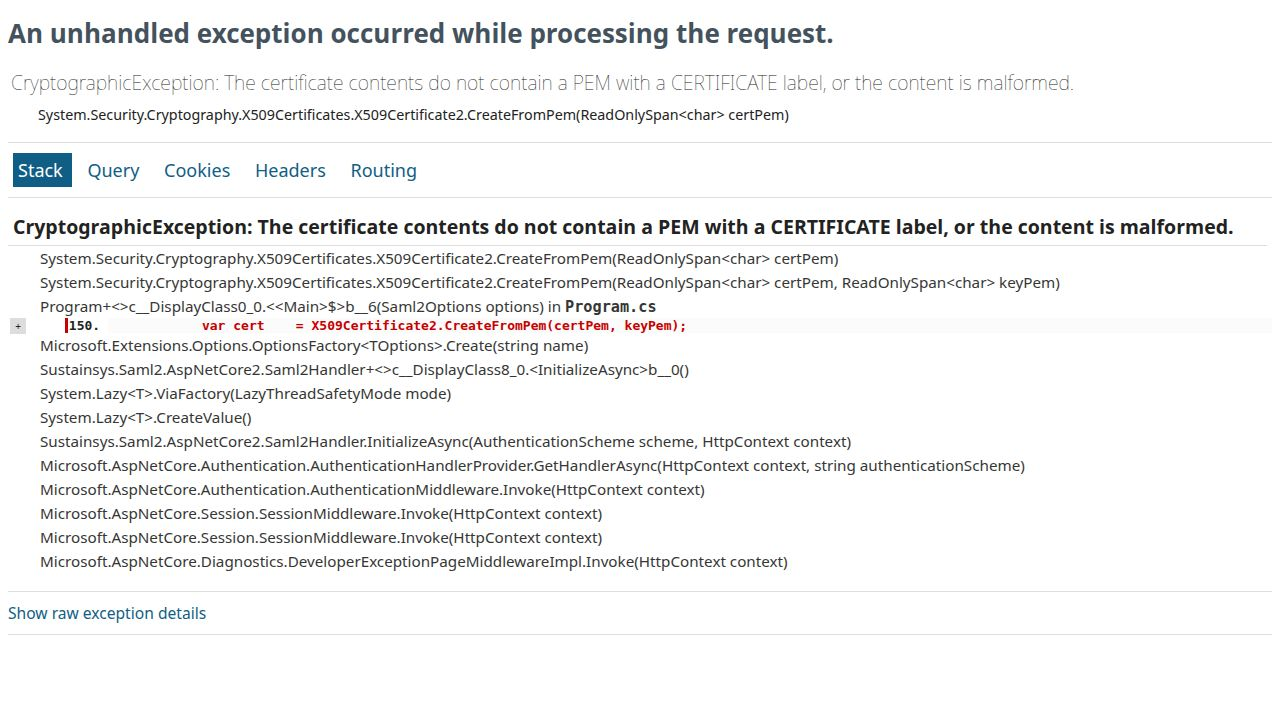
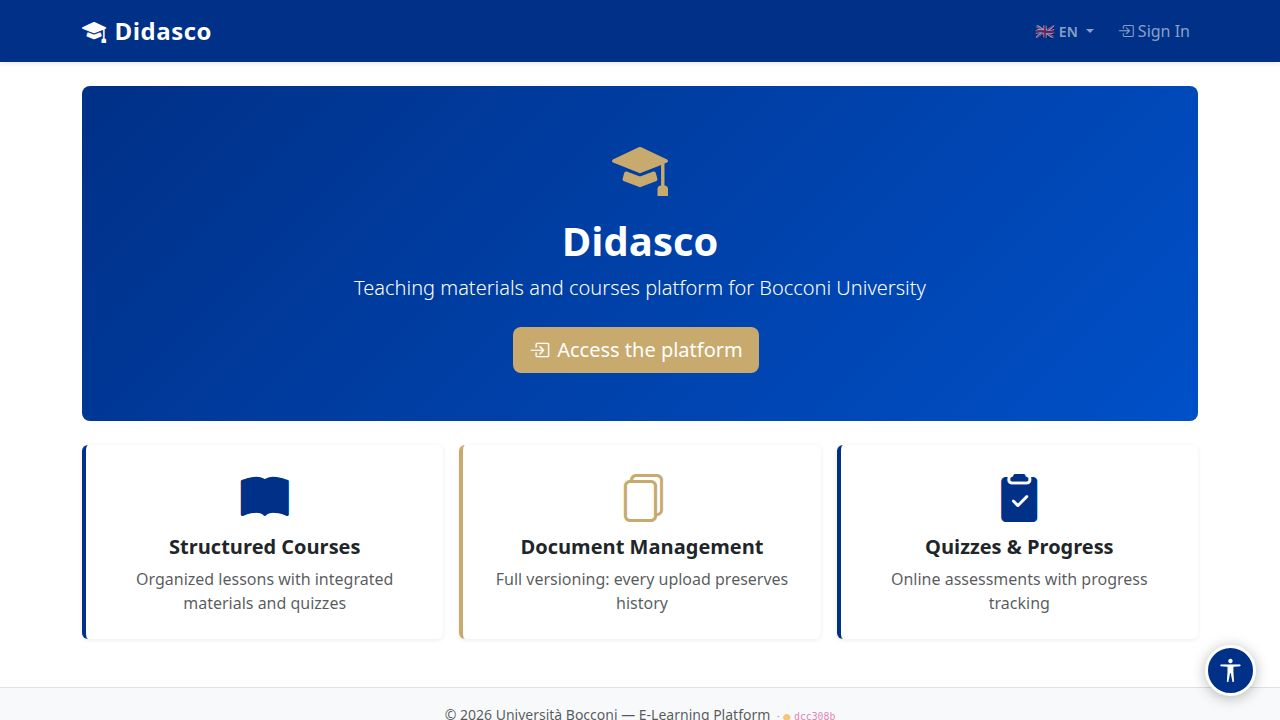
chore: sync from Replit

diff --git a/Program.cs b/Program.cs
@@ -97,7 +97,7 @@ builder.Services.AddSingleton<Microsoft.Extensions.Localization.IStringLocalizer
 builder.Services.AddControllersWithViews()
     .AddDataAnnotationsLocalization();
 
-// In development l'app gira in un iframe (preview Replit / canvas):
+// In development l'app gira in un iframe (preview preProd / canvas):
 // il middleware Antiforgery imposta X-Frame-Options: SAMEORIGIN di default,
 // che blocca il caricamento in iframe su domini diversi.
 // SuppressXFrameOptionsHeader=true rimuove quell'header solo in dev.
@@ -142,8 +142,15 @@ const string StubIdpMetaUrl   = "https://stubidp.sustainsys.com/Metadata";
 // SAML_IDP_METADATA_URL  → URL da cui scaricare il metadata XML dell'IdP
 //   dev default : https://stubidp.sustainsys.com/Metadata
 //   Bocconi prod: https://idp.unibocconi.it/metadata/get-config.php?what=UNIBOCCONI-ADFS
-var samlIdpMetadataUrl = Environment.GetEnvironmentVariable("SAML_IDP_METADATA_URL")
-                      ?? StubIdpMetaUrl;
+// Se la variabile punta al vecchio samltest.id (abbandonato, restituisce 400),
+// ignorarla e usare il fallback stubidp che funziona correttamente.
+const string AbandonedSamlTestId = "https://samltest.id/saml/idp";
+var samlIdpMetadataUrlRaw = Environment.GetEnvironmentVariable("SAML_IDP_METADATA_URL");
+var samlIdpMetadataUrl =
+    string.IsNullOrEmpty(samlIdpMetadataUrlRaw) ||
+    string.Equals(samlIdpMetadataUrlRaw, AbandonedSamlTestId, StringComparison.OrdinalIgnoreCase)
+        ? StubIdpMetaUrl
+        : samlIdpMetadataUrlRaw;
 
 // SAML_IDP_ENTITY_ID → entityID nelle asserzioni SAML (può differire dalla metadata URL)
 //   dev default : https://stubidp.sustainsys.com/
@@ -199,7 +206,7 @@ builder.Services.AddAuthentication()
         // Strategy (in order of priority):
         //   1. SAML_SP_CERT_PFX secret  → base64-encoded PKCS#12 bundle (cert + key)
         //   2. No secret                → generate a fresh RSA-2048 self-signed cert
-        //      Works perfectly in dev/Replit; in prod use SAML_SP_CERT_PFX.
+        //      Works perfectly in dev/preProd; in prod use SAML_SP_CERT_PFX.
         //
         // NOTE: raw PEM-from-base64 was abandoned because .NET's CreateFromPem is
         //       strict about BOM/invisible chars that may be introduced by secret UIs.
@@ -214,7 +221,7 @@ builder.Services.AddAuthentication()
         }
         else
         {
-            // Generate a fresh self-signed cert at startup (dev / Replit default)
+            // Generate a fresh self-signed cert at startup (dev / preProd default)
             using var rsa = RSA.Create(2048);
             var req = new CertificateRequest(
                 "CN=didasco.unibocconi.it, O=Universita Bocconi, C=IT",
@@ -314,9 +321,15 @@ app.MapGet("/auth/saml-metadata", (HttpContext ctx) =>
 }).AllowAnonymous();
 
 // ── Schema migrations + seed traduzioni ──────────────────────────────────────
-// DatabaseMigrator applica ogni migrazione esattamente una volta (tracciata in schema_migrations).
-try { await BocconiLMS.Tools.DatabaseMigrator.RunAsync(connectionString, app.Logger); }
-catch (Exception ex) { app.Logger.LogWarning(ex, "Database migration failed (non bloccante)"); }
+// Le migrazioni NON vengono più eseguite automaticamente all'avvio.
+// Per applicarle manualmente (solo quando necessario):
+//   dotnet run --project artifacts/bocconi-lms -- migrate
+// oppure, da Admin → Database → "Esegui migrazioni".
+//
+// In produzione lo schema viene generato una-tantum con GenerateProductionScript.
+//
+// try { await BocconiLMS.Tools.DatabaseMigrator.RunAsync(connectionString, app.Logger); }
+// catch (Exception ex) { app.Logger.LogWarning(ex, "Database migration failed (non bloccante)"); }
 
 // IIS detection: AspNetCoreModuleV2 sets these env vars depending on hosting mode.
 //   - inprocess:    ASPNETCORE_IIS_HTTPAUTH, IIS_USER_TOKEN
@@ -334,11 +347,11 @@ if (isIIS)
 }
 else
 {
-    var replitPort = Environment.GetEnvironmentVariable("PORT");
-    if (!string.IsNullOrEmpty(replitPort))
+    var preProdPort = Environment.GetEnvironmentVariable("PORT");
+    if (!string.IsNullOrEmpty(preProdPort))
     {
-        // Replit: la porta è assegnata dinamicamente via env var PORT
-        app.Run($"http://0.0.0.0:{replitPort}");
+        // preProd: la porta è assegnata dinamicamente via env var PORT
+        app.Run($"http://0.0.0.0:{preProdPort}");
     }
     else
     {
